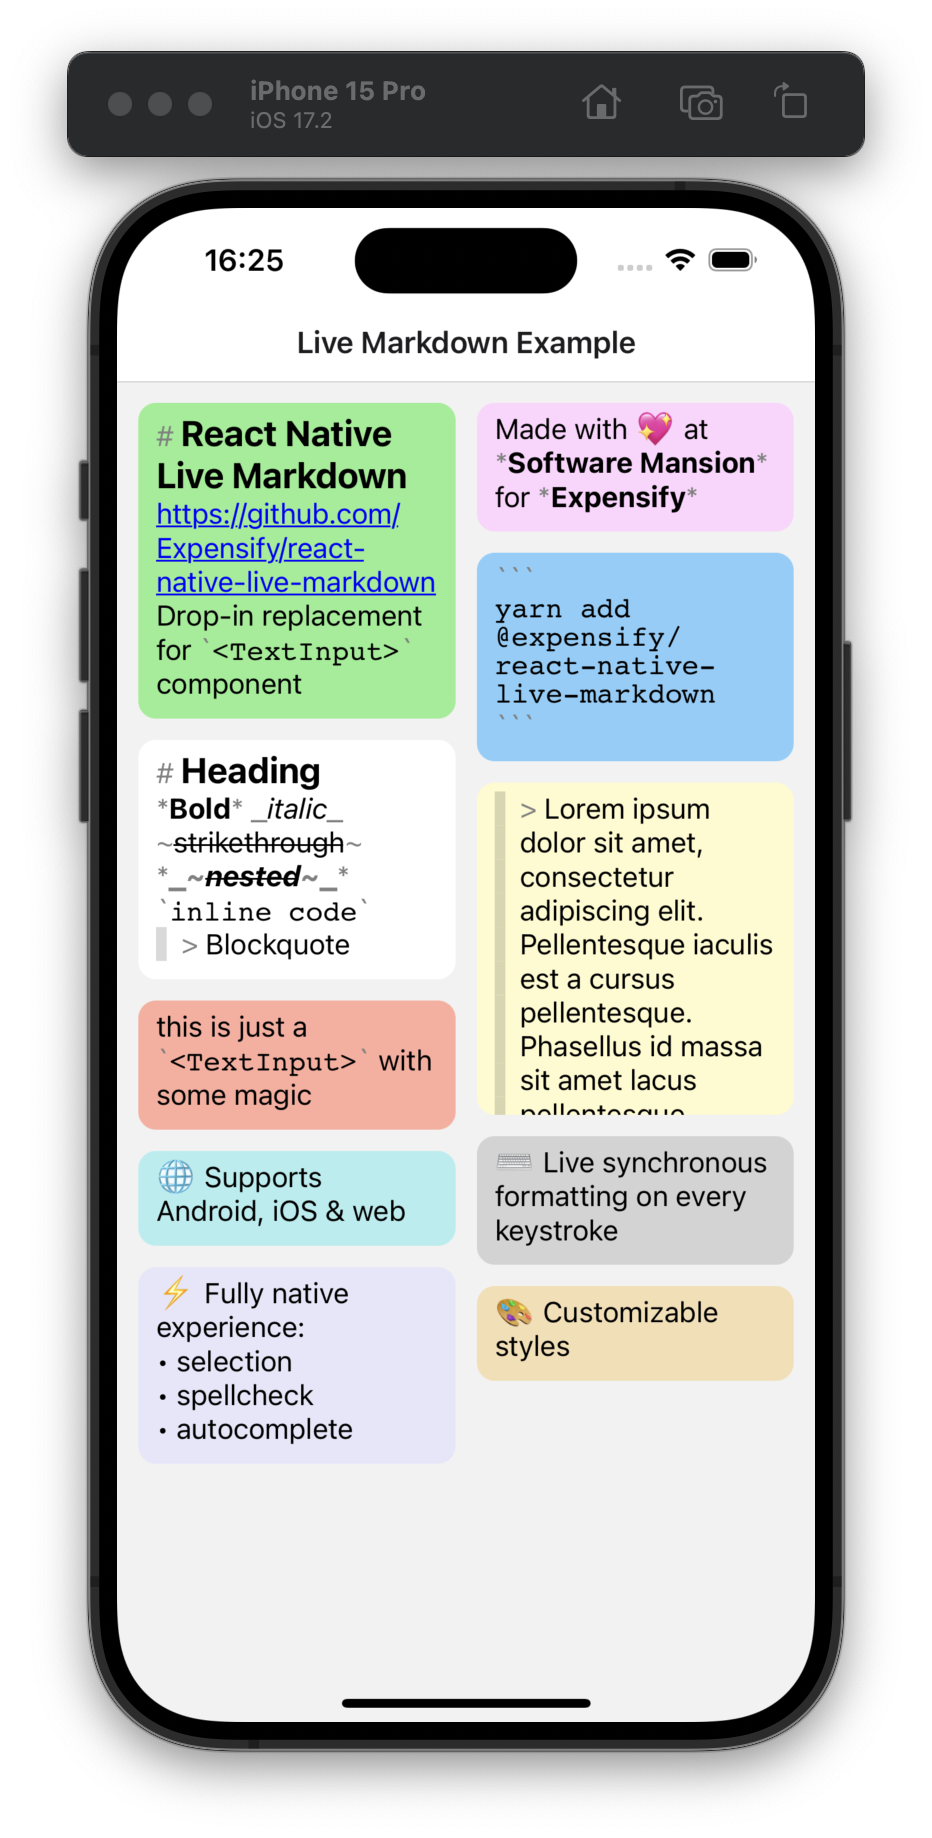
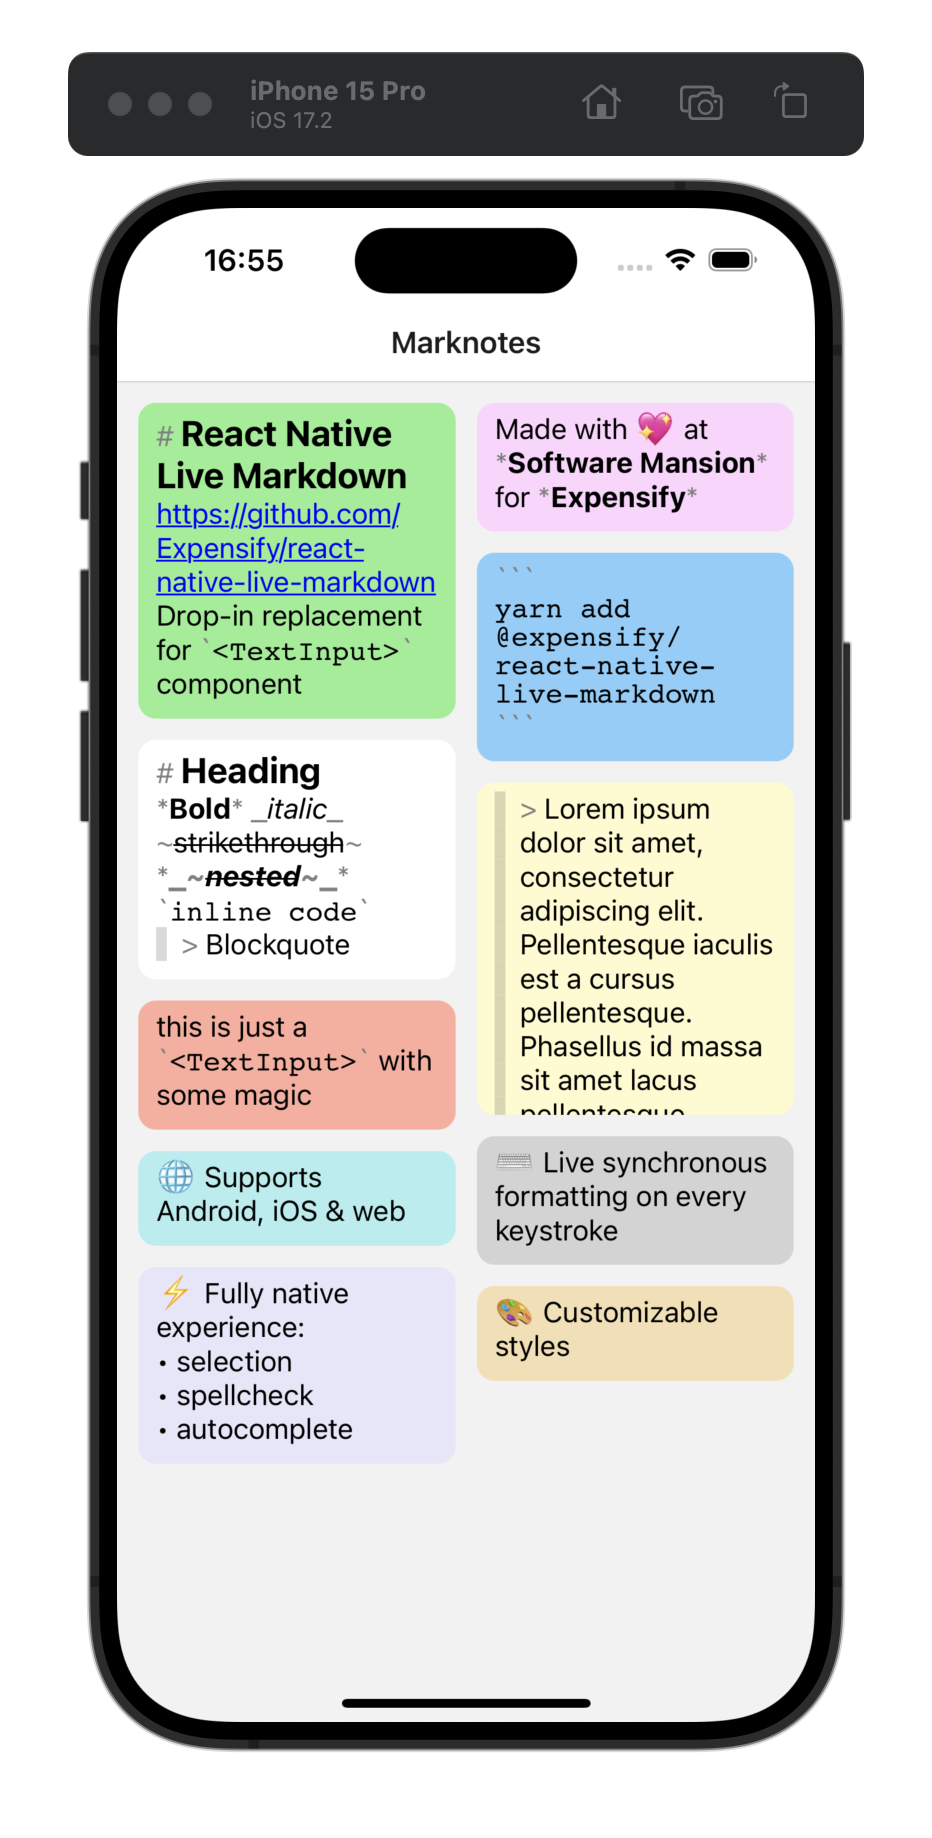
Change header title

Changed region(s): [[0.0311, 0.031, 0.9646, 0.9924], [0.4045, 0.1551, 0.6845, 0.2171], [0.3423, 0.1861, 0.3734, 0.2171]]

diff --git a/App.tsx b/App.tsx
@@ -235,7 +235,7 @@ export default function App() {
           }}>
           <Stack.Screen
             name="HomeScreen"
-            options={{headerTitle: 'Live Markdown Example'}}
+            options={{headerTitle: 'Marknotes'}}
             component={HomeScreen}
           />
           <Stack.Screen
